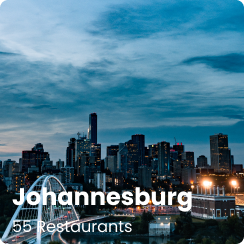
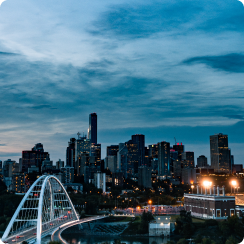
cities

Changed region(s): [[0.0287, 0.7459, 0.8033, 0.8893], [0.0287, 0.8893, 0.5451, 0.9754]]

diff --git a/index.html b/index.html
@@ -117,31 +117,44 @@
         </div>
     </section>
 
-    <section id="cities">
-        <div>
-            <img src="./assets/city.png" alt="city">
-            <h3>Johannesburg</h3>
-            <p>55 Restaurants</p>
-        </div>
-        <div>
-            <img src="./assets/city.png" alt="city">
-            <h3>Johannesburg</h3>
-            <p>55 Restaurants</p>
-        </div>
-        <div>
-            <img src="./assets/city.png" alt="city">
-            <h3>Johannesburg</h3>
-            <p>55 Restaurants</p>
-        </div>
-        <div>
-            <img src="./assets/city.png" alt="city">
-            <h3>Johannesburg</h3>
-            <p>55 Restaurants</p>
-        </div>
-        <div>
-            <img src="./assets/city.png" alt="city">
-            <h3>Johannesburg</h3>
-            <p>55 Restaurants</p>
+    <section id="cities" class="mt-5">
+        <h2 class="fw-bold mt-5" style="font-size: 48px;">Find us in these cities and many more!</h2>
+        <div class="d-flex justify-content-between mt-5">
+            <div style="position: relative;">
+                <img src="./assets/city.png" alt="city">
+                <div class="text-white fw-bold" style="position: absolute; bottom: 0; left: 1rem;">
+                    <h3>Johannesburg</h3>
+                    <p>55 Restaurants</p>
+                </div>
+            </div>
+            <div style="position: relative;">
+                <img src="./assets/city.png" alt="city">
+                <div class="text-white fw-bold" style="position: absolute; bottom: 0; left: 1rem;">
+                    <h3>Johannesburg</h3>
+                    <p>55 Restaurants</p>
+                </div>
+            </div>
+            <div style="position: relative;">
+                <img src="./assets/city.png" alt="city">
+                <div class="text-white fw-bold" style="position: absolute; bottom: 0; left: 1rem;">
+                    <h3>Johannesburg</h3>
+                    <p>55 Restaurants</p>
+                </div>
+            </div>
+            <div style="position: relative;">
+                <img src="./assets/city.png" alt="city">
+                <div class="text-white fw-bold" style="position: absolute; bottom: 0; left: 1rem;">
+                    <h3>Johannesburg</h3>
+                    <p>55 Restaurants</p>
+                </div>
+            </div>
+            <div style="position: relative;">
+                <img src="./assets/city.png" alt="city">
+                <div class="text-white fw-bold" style="position: absolute; bottom: 0; left: 1rem;">
+                    <h3>Johannesburg</h3>
+                    <p>55 Restaurants</p>
+                </div>
+            </div>
         </div>
     </section>
 
